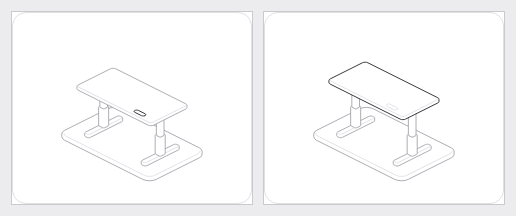
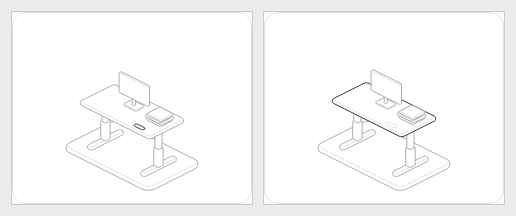
zit-sta: add monitor and lagging folder stack
Claude-Session: https://claude.ai/code/session_01JCRAAQ5M8m821ms5KLUmok

diff --git a/hairline/hairline-zit-sta.html b/hairline/hairline-zit-sta.html
@@ -878,10 +878,13 @@ var HL = (() => {
 <script type="module" id="hl-figure">
 /**
  * Zit-sta: a height-adjustable desk on two T-legs, each a two-stage column on a
- * foot bar, with a control pad on the top. The pointer's height sets the desk's
- * height, between sit and stand, on one spring. At rest the desk stands part
- * way, and the pad is the bright mark; while the pointer is on the page the
- * bright goes to the top's rim. The slider is the travel, in world units.
+ * foot bar, with a control pad, a monitor and a stack of folders on the top.
+ * The pointer's height sets the desk's height, between sit and stand, on one
+ * spring. The monitor rides the top; each folder has a softer spring of its
+ * own and can only lag upwards, so on the way down the stack floats a moment
+ * and settles. At rest the desk stands part way, and the pad is the bright
+ * mark; while the pointer is on the page the bright goes to the top's rim.
+ * The slider is the travel, in world units.
  *
  * The pattern: a continuous value from the pointer's own screen height, so
  * the hit test never reads the moving geometry.
@@ -894,14 +897,16 @@ const {
 const LX = 112, LY = 56, H0 = 43, TRAVEL_MAX = 46, REST = 0.4;
 const FOOT = 3.5, LOW = 26, CM = 0.7, Y_STAND = 70, Y_SIT = 250;
 const LEGS = [14, 98];
+const FOLD = [[82, 11, 104, 31], [83.5, 10, 105, 30], [81, 12.5, 103, 32.5], [83, 11, 104.5, 31]], FT = 2.2;
+const LAG = [null, { k: 70, c: 13 }, { k: 48, c: 11 }, { k: 32, c: 9 }];
 
 function mount({ stage, svg, read }, value) {
   const bag = disposer();
-  const C = Cam(45, 0.5, 1.6);
+  const C = Cam(45, 0.5, 1.5);
   const hMax = H0 + TRAVEL_MAX;
-  fit(C, [[-12, -14, -4], [124, -14, -4], [-12, 70, -4], [124, 70, -4], [0, 0, hMax], [LX, LY, hMax]], 200, 166);
+  fit(C, [[-12, -14, -4], [124, -14, -4], [-12, 70, -4], [124, 70, -4], [0, 0, hMax + 36], [LX, LY, hMax]], 200, 166);
   const P = proj(C), front = facing(C);
-  let trav = value, active = false, drawn = NaN;
+  let trav = value, active = false, drawn = "";
   const sp = spring(REST, { eps: 0.002 });
 
   const g = mk("g", {}, svg);
@@ -920,51 +925,66 @@ function mount({ stage, svg, read }, value) {
   });
   const top = solid(g);
   const [tr, ti] = rings(0, 0, LX, LY, 4, 1.2);
+  const mon = [rings(40, 12, 60, 26, 2, 0.6), rings(48.5, 17.5, 51.5, 20.5, 1, 0.5), rings(27, 16.5, 73, 20, 1.3, 0.55)].map((r) => ({ r, el: solid(g) }));
+  const fol = FOLD.map((f, k) => ({ r: rings(f[0], f[1], f[2], f[3], 1.6, 0.6), el: solid(g), sp: LAG[k] && spring(REST, { eps: 0.002, ...LAG[k] }) }));
   const pad = mk("path", { class: "nf hi" }, g);
   const padRing = rrect(80, 45, 95, 50.5, 2.6, 6);
 
   function draw() {
     const H = H0 + trav * sp.x;
-    if (H === drawn) return;
-    drawn = H;
+    const key = H + "|" + fol.map((f) => f.sp ? f.sp.x : 0).join();
+    if (key === drawn) return;
+    drawn = key;
     for (const l of legs) {
       put(l.up, prism(P, front, l.ur, l.ui, LOW, H - 3));
       put(l.rl, prism(P, front, l.rail[0], l.rail[1], H - 6.5, H - 3));
     }
     put(top, prism(P, front, tr, ti, H - 3, H));
+    put(mon[0].el, prism(P, front, ...mon[0].r, H, H + 1.2));
+    put(mon[1].el, prism(P, front, ...mon[1].r, H + 1.2, H + 10));
+    put(mon[2].el, prism(P, front, ...mon[2].r, H + 9, H + 34));
+    fol.forEach((f, k) => {
+      const z = H0 + trav * (f.sp ? Math.max(sp.x, f.sp.x) : sp.x) + k * FT;
+      put(f.el, prism(P, front, ...f.r, z, z + FT));
+    });
     top.sil.classList.toggle("hi", active);
     pad.setAttribute("d", poly(ringAt(P, padRing, H)));
     pad.classList.toggle("hi", !active);
     pad.classList.toggle("lo", active);
   }
 
-  const B = register(stage, (dt) => { const m = stepS(sp, dt); draw(); return m; });
+  const B = register(stage, (dt) => { let m = stepS(sp, dt);
+    for (const f of fol) if (f.sp && stepS(f.sp, dt)) m = true;
+    draw();
+    return m; });
   bag.add(B.unregister);
 
   bag.add(pointer(stage, {
     move: (p) => {
       active = true;
       sp.t = clamp((Y_SIT - p[1]) / (Y_SIT - Y_STAND), 0, 1);
+      for (const f of fol) if (f.sp) f.sp.t = sp.t;
       read.textContent = "h " + Math.round((H0 + trav * sp.t) / CM);
-      drawn = NaN;
+      drawn = "";
       B.wake();
     },
     leave: () => {
       active = false;
       sp.t = REST;
+      for (const f of fol) if (f.sp) f.sp.t = REST;
       read.textContent = "rest";
-      drawn = NaN;
+      drawn = "";
       B.wake();
     },
   }));
   bag.add(() => svg.replaceChildren());
 
-  return { set: (v) => { trav = v; drawn = NaN; B.wake(); }, destroy: bag.dispose };
+  return { set: (v) => { trav = v; drawn = ""; B.wake(); }, destroy: bag.dispose };
 }
 
 hairline({
   name: "zit-sta",
-  means: "A sit-stand desk rises and sinks with the pointer's height, on its two telescoping legs.",
+  means: "A sit-stand desk with a monitor and a stack of folders rises and sinks with the pointer's height.",
   rules: [1, 3, 5, 9],
   range: [24, 34, 46],
   tour: [[200, 80], [200, 235], [200, 150], null],

diff --git a/hairline/zit-sta.js b/hairline/zit-sta.js
@@ -1,9 +1,12 @@
 /**
  * Zit-sta: a height-adjustable desk on two T-legs, each a two-stage column on a
- * foot bar, with a control pad on the top. The pointer's height sets the desk's
- * height, between sit and stand, on one spring. At rest the desk stands part
- * way, and the pad is the bright mark; while the pointer is on the page the
- * bright goes to the top's rim. The slider is the travel, in world units.
+ * foot bar, with a control pad, a monitor and a stack of folders on the top.
+ * The pointer's height sets the desk's height, between sit and stand, on one
+ * spring. The monitor rides the top; each folder has a softer spring of its
+ * own and can only lag upwards, so on the way down the stack floats a moment
+ * and settles. At rest the desk stands part way, and the pad is the bright
+ * mark; while the pointer is on the page the bright goes to the top's rim.
+ * The slider is the travel, in world units.
  *
  * The pattern: a continuous value from the pointer's own screen height, so
  * the hit test never reads the moving geometry.
@@ -16,14 +19,16 @@ const {
 const LX = 112, LY = 56, H0 = 43, TRAVEL_MAX = 46, REST = 0.4;
 const FOOT = 3.5, LOW = 26, CM = 0.7, Y_STAND = 70, Y_SIT = 250;
 const LEGS = [14, 98];
+const FOLD = [[82, 11, 104, 31], [83.5, 10, 105, 30], [81, 12.5, 103, 32.5], [83, 11, 104.5, 31]], FT = 2.2;
+const LAG = [null, { k: 70, c: 13 }, { k: 48, c: 11 }, { k: 32, c: 9 }];
 
 function mount({ stage, svg, read }, value) {
   const bag = disposer();
-  const C = Cam(45, 0.5, 1.6);
+  const C = Cam(45, 0.5, 1.5);
   const hMax = H0 + TRAVEL_MAX;
-  fit(C, [[-12, -14, -4], [124, -14, -4], [-12, 70, -4], [124, 70, -4], [0, 0, hMax], [LX, LY, hMax]], 200, 166);
+  fit(C, [[-12, -14, -4], [124, -14, -4], [-12, 70, -4], [124, 70, -4], [0, 0, hMax + 36], [LX, LY, hMax]], 200, 166);
   const P = proj(C), front = facing(C);
-  let trav = value, active = false, drawn = NaN;
+  let trav = value, active = false, drawn = "";
   const sp = spring(REST, { eps: 0.002 });
 
   const g = mk("g", {}, svg);
@@ -42,51 +47,66 @@ function mount({ stage, svg, read }, value) {
   });
   const top = solid(g);
   const [tr, ti] = rings(0, 0, LX, LY, 4, 1.2);
+  const mon = [rings(40, 12, 60, 26, 2, 0.6), rings(48.5, 17.5, 51.5, 20.5, 1, 0.5), rings(27, 16.5, 73, 20, 1.3, 0.55)].map((r) => ({ r, el: solid(g) }));
+  const fol = FOLD.map((f, k) => ({ r: rings(f[0], f[1], f[2], f[3], 1.6, 0.6), el: solid(g), sp: LAG[k] && spring(REST, { eps: 0.002, ...LAG[k] }) }));
   const pad = mk("path", { class: "nf hi" }, g);
   const padRing = rrect(80, 45, 95, 50.5, 2.6, 6);
 
   function draw() {
     const H = H0 + trav * sp.x;
-    if (H === drawn) return;
-    drawn = H;
+    const key = H + "|" + fol.map((f) => f.sp ? f.sp.x : 0).join();
+    if (key === drawn) return;
+    drawn = key;
     for (const l of legs) {
       put(l.up, prism(P, front, l.ur, l.ui, LOW, H - 3));
       put(l.rl, prism(P, front, l.rail[0], l.rail[1], H - 6.5, H - 3));
     }
     put(top, prism(P, front, tr, ti, H - 3, H));
+    put(mon[0].el, prism(P, front, ...mon[0].r, H, H + 1.2));
+    put(mon[1].el, prism(P, front, ...mon[1].r, H + 1.2, H + 10));
+    put(mon[2].el, prism(P, front, ...mon[2].r, H + 9, H + 34));
+    fol.forEach((f, k) => {
+      const z = H0 + trav * (f.sp ? Math.max(sp.x, f.sp.x) : sp.x) + k * FT;
+      put(f.el, prism(P, front, ...f.r, z, z + FT));
+    });
     top.sil.classList.toggle("hi", active);
     pad.setAttribute("d", poly(ringAt(P, padRing, H)));
     pad.classList.toggle("hi", !active);
     pad.classList.toggle("lo", active);
   }
 
-  const B = register(stage, (dt) => { const m = stepS(sp, dt); draw(); return m; });
+  const B = register(stage, (dt) => { let m = stepS(sp, dt);
+    for (const f of fol) if (f.sp && stepS(f.sp, dt)) m = true;
+    draw();
+    return m; });
   bag.add(B.unregister);
 
   bag.add(pointer(stage, {
     move: (p) => {
       active = true;
       sp.t = clamp((Y_SIT - p[1]) / (Y_SIT - Y_STAND), 0, 1);
+      for (const f of fol) if (f.sp) f.sp.t = sp.t;
       read.textContent = "h " + Math.round((H0 + trav * sp.t) / CM);
-      drawn = NaN;
+      drawn = "";
       B.wake();
     },
     leave: () => {
       active = false;
       sp.t = REST;
+      for (const f of fol) if (f.sp) f.sp.t = REST;
       read.textContent = "rest";
-      drawn = NaN;
+      drawn = "";
       B.wake();
     },
   }));
   bag.add(() => svg.replaceChildren());
 
-  return { set: (v) => { trav = v; drawn = NaN; B.wake(); }, destroy: bag.dispose };
+  return { set: (v) => { trav = v; drawn = ""; B.wake(); }, destroy: bag.dispose };
 }
 
 hairline({
   name: "zit-sta",
-  means: "A sit-stand desk rises and sinks with the pointer's height, on its two telescoping legs.",
+  means: "A sit-stand desk with a monitor and a stack of folders rises and sinks with the pointer's height.",
   rules: [1, 3, 5, 9],
   range: [24, 34, 46],
   tour: [[200, 80], [200, 235], [200, 150], null],
